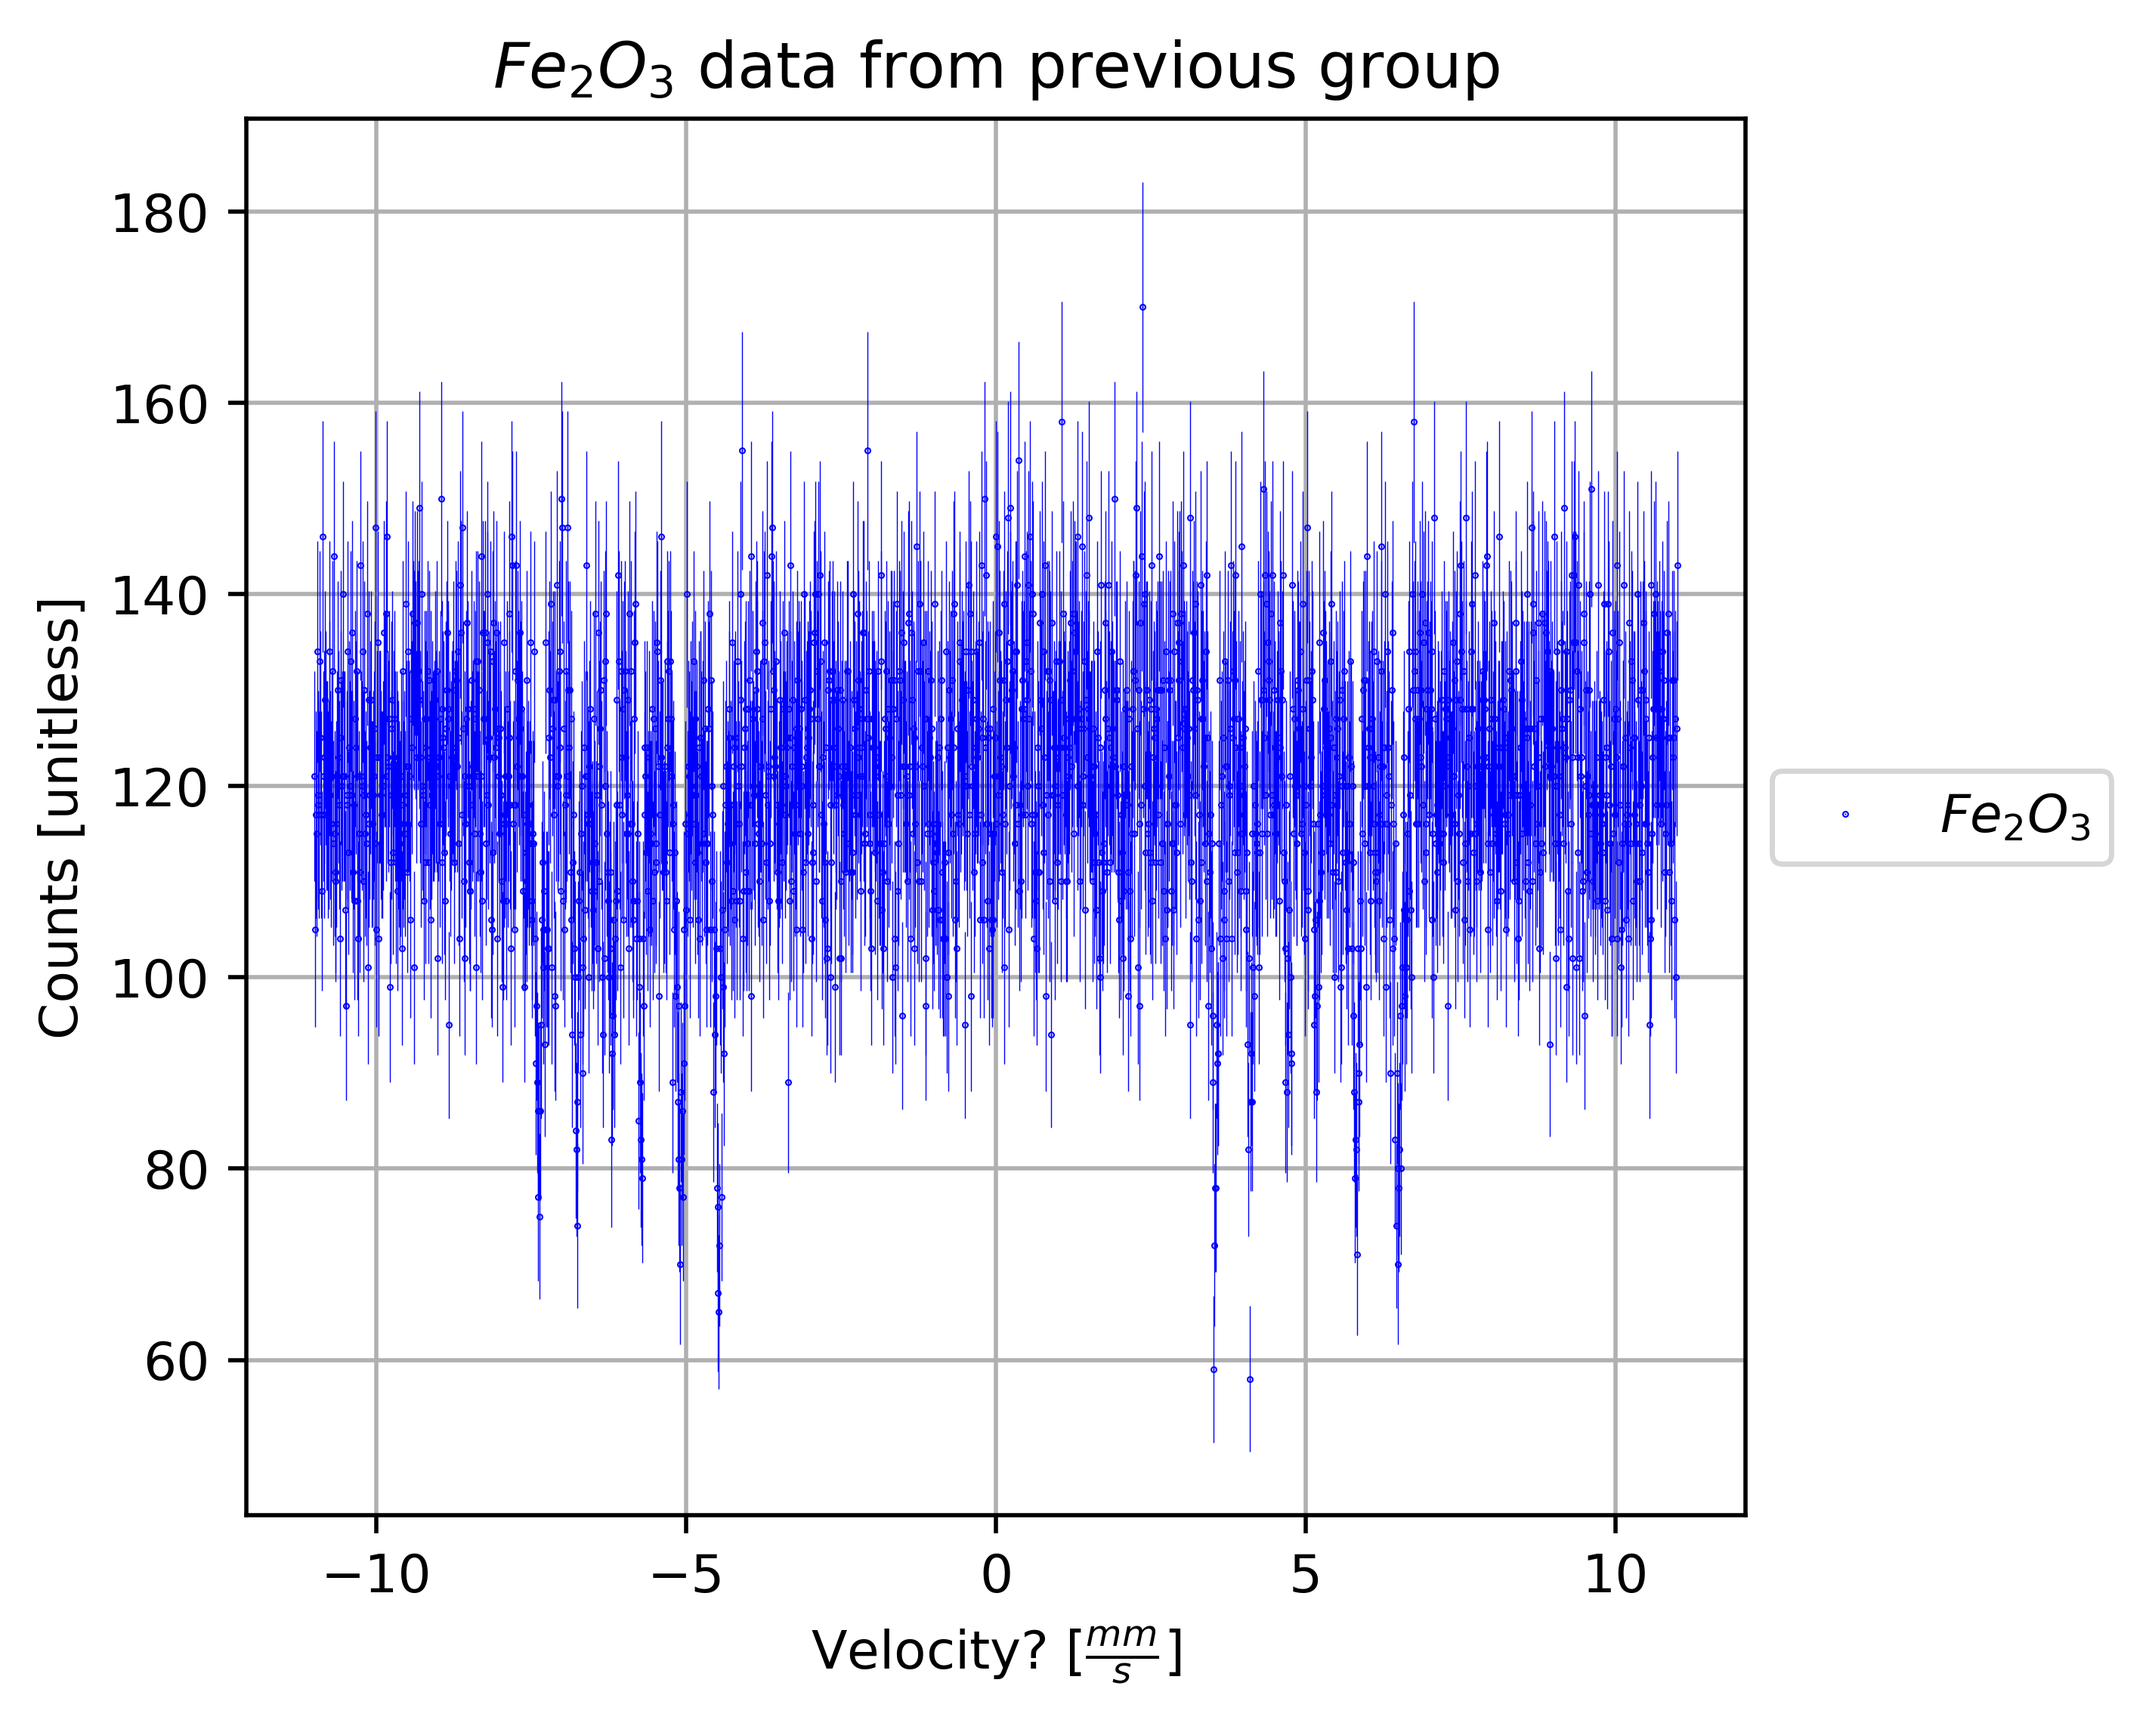
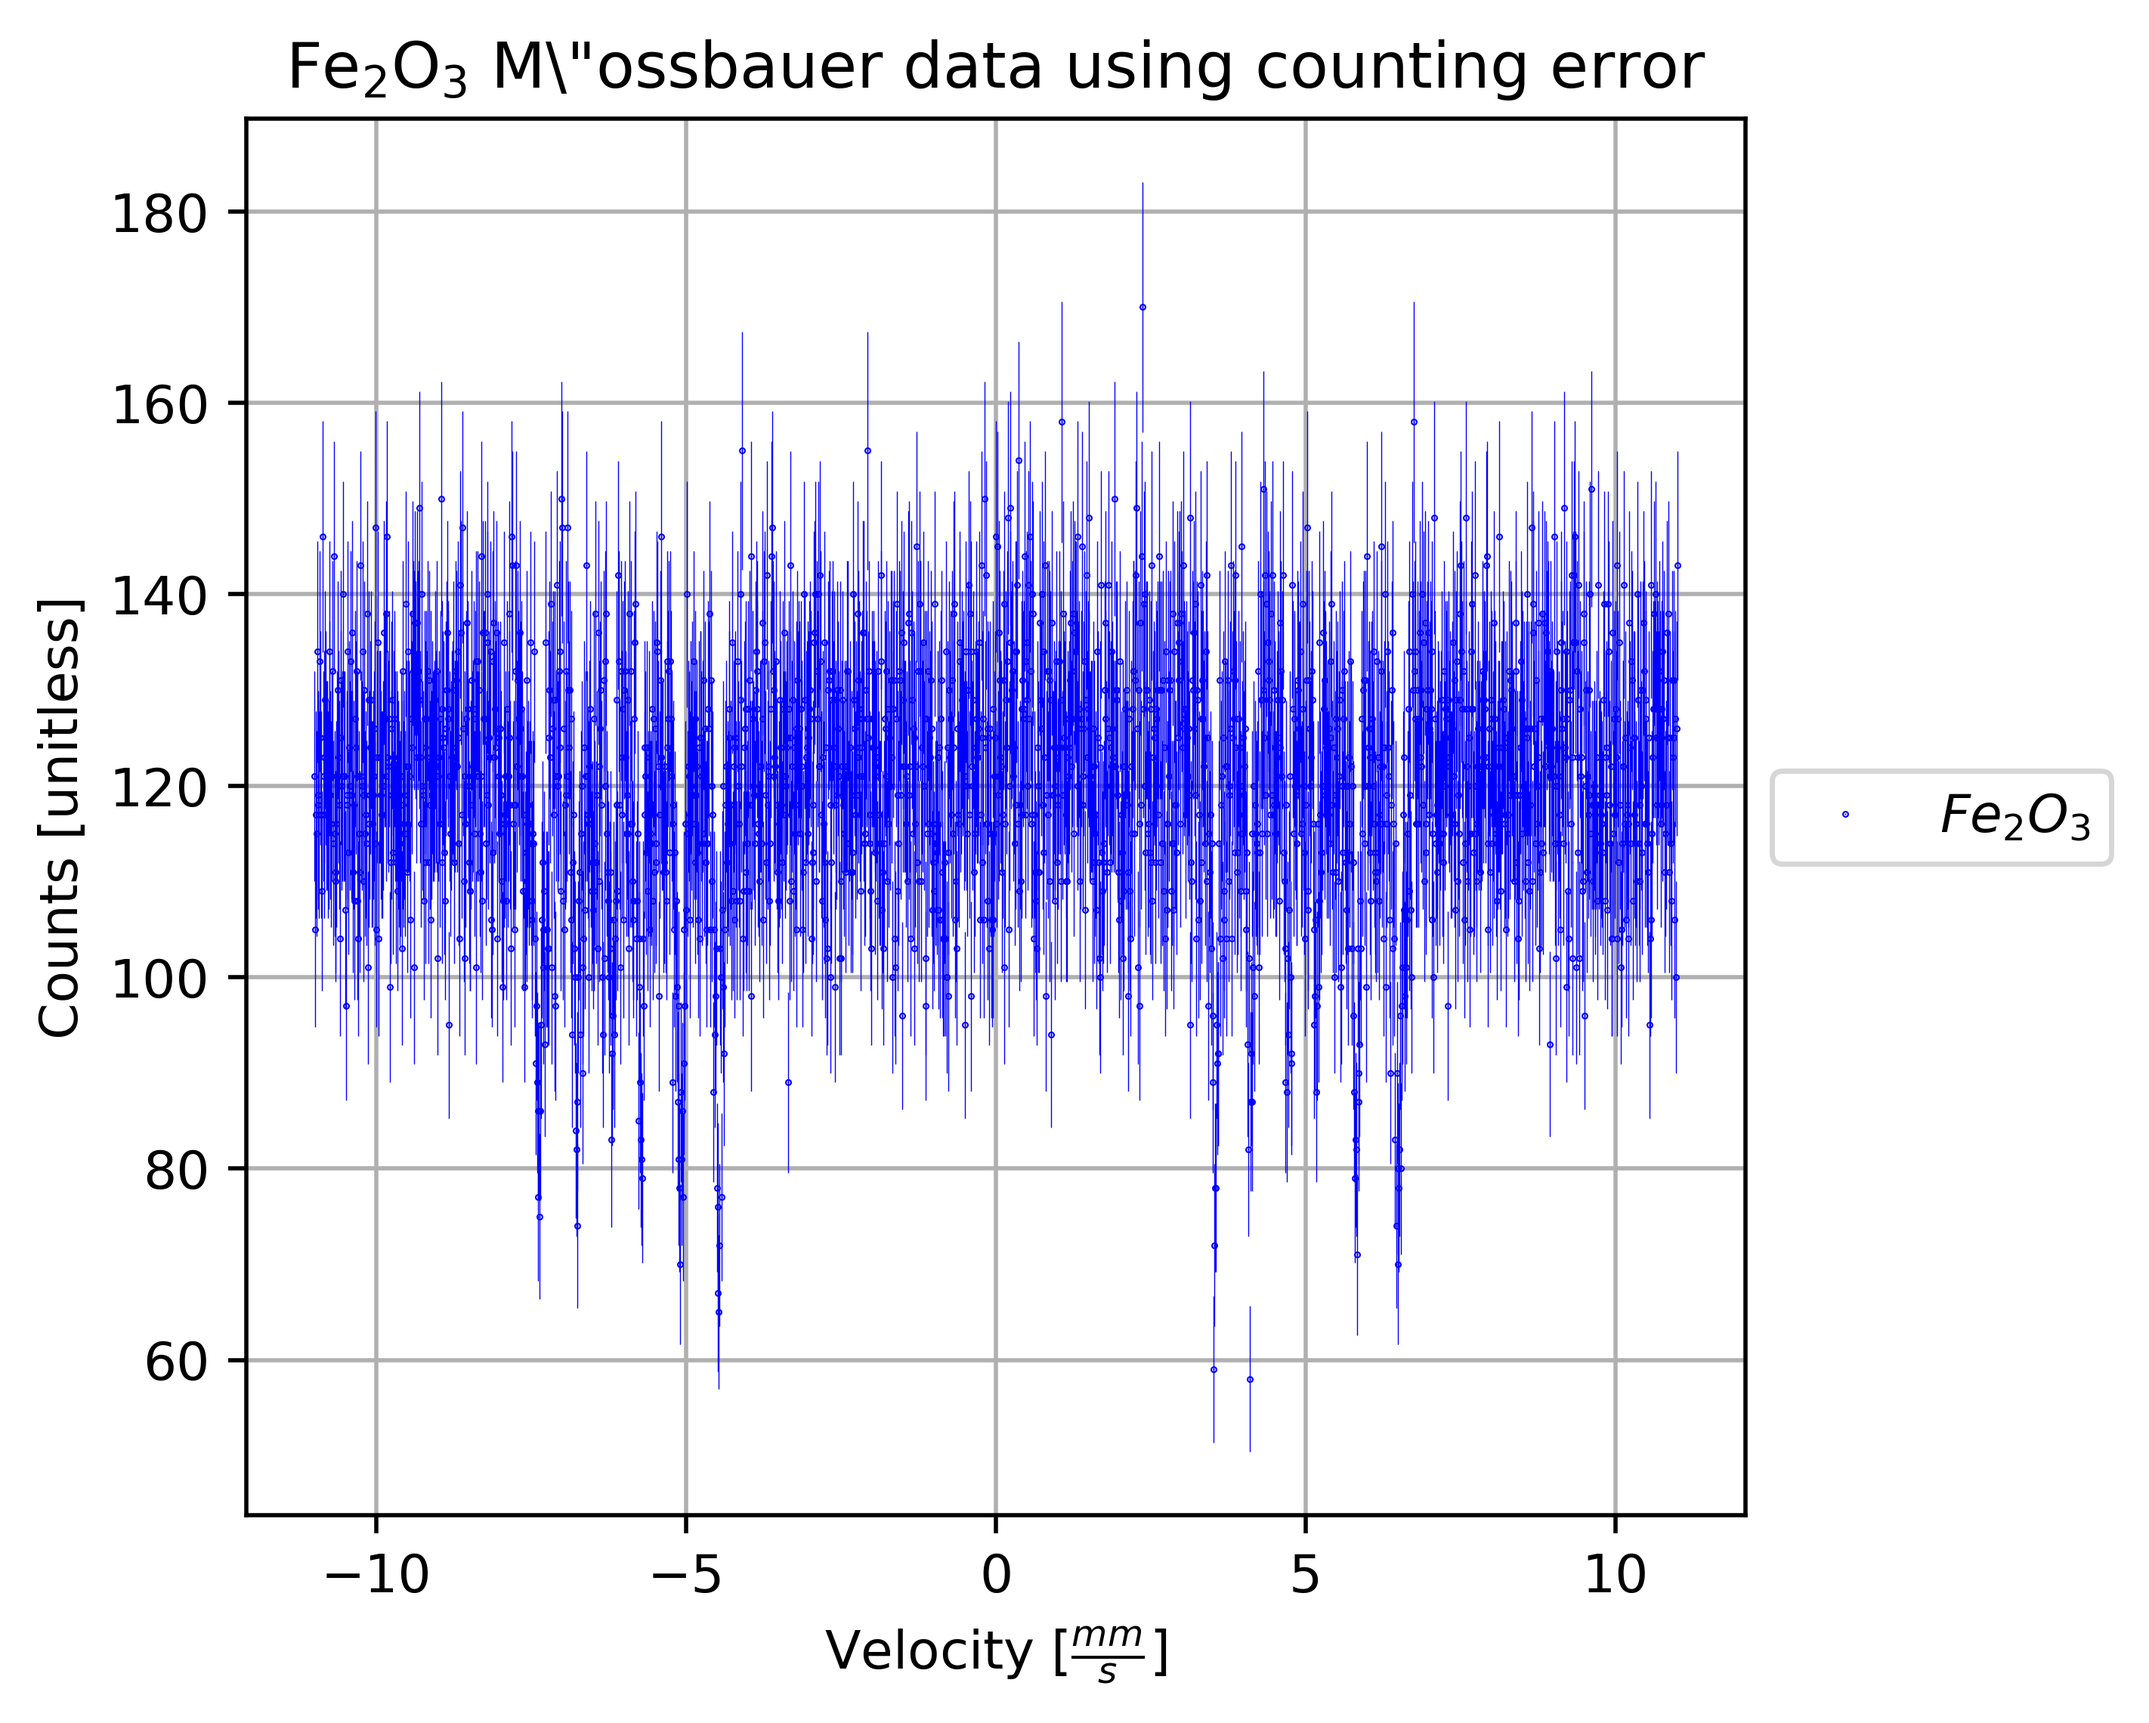
raw data plot

Changed region(s): [[0.1238, 0.0311, 0.8045, 0.0623], [0.3713, 0.9342, 0.557, 0.9965]]

diff --git a/MossbauerScript.py b/MossbauerScript.py
@@ -189,9 +189,13 @@ dat = readCSV(dataFolder+"Fe2O3_05-02-2019_new.csv")
 xData, yData, yErr, time = dat[0], dat[1], dat[2], dat[3]
 xData = convertToVelocity(xData, [-11,11])
 
+# plot raw data
+rp.plotInit(xAx=r"Velocity $[\frac{mm}{s}]$", yAx=r"Counts [unitless]",plotTitle=r"Fe$_2$O$_3$ M\"ossbauer data")
+rp.plotData(xData, yData, 0, 0, dataLabel=r"$Fe_2O_3$", colour="Blue")
+rp.plotOutput(plotsFolder+"Data.png")
 
 # plot raw data with error bars
-rp.plotInit(xAx=r"Velocity? $[\frac{mm}{s}]$", yAx=r"Counts [unitless]",plotTitle=r"$Fe_2O_3$ data from previous group")
+rp.plotInit(xAx=r"Velocity $[\frac{mm}{s}]$", yAx=r"Counts [unitless]",plotTitle=r"Fe$_2$O$_3$ M\"ossbauer data using counting error")
 rp.plotData(xData, yData, 0, yErr, dataLabel=r"$Fe_2O_3$", colour="Blue")
 rp.plotOutput(plotsFolder+"DataErrorBars.png")
 
@@ -287,22 +291,22 @@ else:
 	rp.plotOutput()
 
 # Make a .dat file with a LaTeX table of all the fit parameters 
-fitParams = open("fitParamsTable.dat","w+")
+# fitParams = open("fitParamsTable.dat","w+")
 
-fitParams.write("\\begin{table}[] \n")
-fitParams.write("\\centering \n")
-fitParams.write("\\begin{tabular}{|c|c|c|c|}\\hline \n")
-fitParams.write("Fit Number & $x_0$ [mm/s] & d [counts] & a [counts] \\\\ \\hline \n")
+# fitParams.write("\\begin{table}[] \n")
+# fitParams.write("\\centering \n")
+# fitParams.write("\\begin{tabular}{|c|c|c|c|}\\hline \n")
+# fitParams.write("Fit Number & $x_0$ [mm/s] & d [counts] & a [counts] \\\\ \\hline \n")
 
-for i in rel(cuts):
-	fitX, fitY, popt, pcov = fitOneLorentzian(xData, yData, yErr, cut=cuts[i])
-	fitParams.write(str(i)+" & "+str('%.2f'%(popt[0]))+"$\\pm$"+str('%.3f'%(m.sqrt(pcov[0][0])))+
-							" & "+str('%.2f'%(popt[1]))+"$\\pm$"+str('%.2f'%(m.sqrt(pcov[1][1])))+
-							" & "+str('%.2f'%(popt[2]))+"$\\pm$"+str('%.2f'%(m.sqrt(pcov[2][2])))+ 
-							"\\\\ \\hline \n")
+# for i in rel(cuts):
+# 	fitX, fitY, popt, pcov = fitOneLorentzian(xData, yData, yErr, cut=cuts[i])
+# 	fitParams.write(str(i)+" & "+str('%.2f'%(popt[0]))+"$\\pm$"+str('%.3f'%(m.sqrt(pcov[0][0])))+
+# 							" & "+str('%.2f'%(popt[1]))+"$\\pm$"+str('%.2f'%(m.sqrt(pcov[1][1])))+
+# 							" & "+str('%.2f'%(popt[2]))+"$\\pm$"+str('%.2f'%(m.sqrt(pcov[2][2])))+ 
+# 							"\\\\ \\hline \n")
 
-fitParams.write("\\end{tabular} \n")
-fitParams.write("\\caption{Fit parameters for all 12 peaks.} \n")
-fitParams.write("\\label{table:my_label} \n")
-fitParams.write("\\end{table}")
-fitParams.close()
+# fitParams.write("\\end{tabular} \n")
+# fitParams.write("\\caption{Fit parameters for all 12 peaks.} \n")
+# fitParams.write("\\label{table:my_label} \n")
+# fitParams.write("\\end{table}")
+# fitParams.close()
